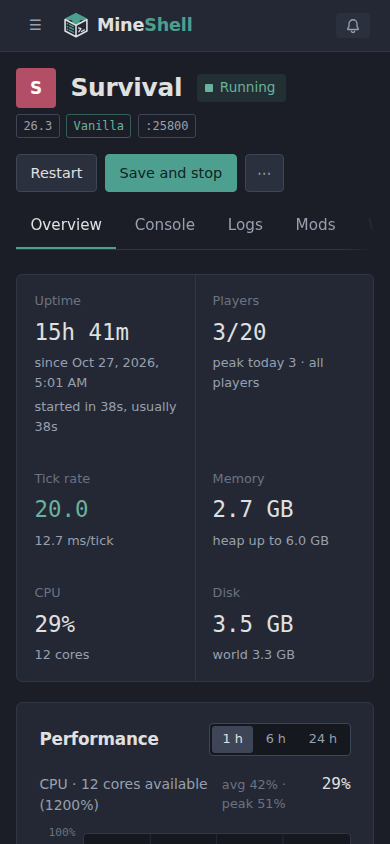
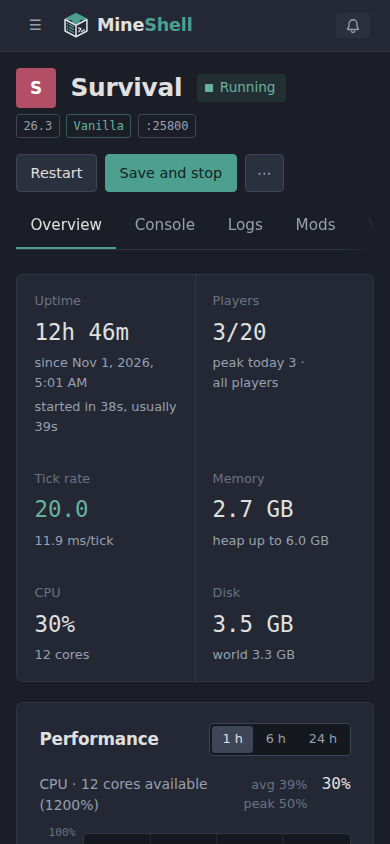
fix: chart numbers and the overview's players line wrap as whole pieces
A chart's average and peak broke anywhere ("avg 2.7 GB · peak 3.1" and
"GB" alone on the next line); they are now two pieces, peak under average
when there is no room. The Players card's "all players" split after "all";
it and "peak today 3 ·" now move to the next line whole. The README's
overview shots are redrawn (the current value's own wrapping was fixed on
2026-10-28, after they were taken).

diff --git a/src/lib/components/Sparkline.svelte b/src/lib/components/Sparkline.svelte
@@ -95,7 +95,8 @@
 		<span class="muted">{label}</span>
 		<span class="numbers">
 			{#if visible.length >= 2}
-				<span class="faint">avg {format(average)}{unit} · peak {format(peak)}{unit}</span>
+				<!-- Each its own piece: a narrow column puts peak under average, never "GB" alone. -->
+				<span class="faint stats"><span>avg {format(average)}{unit}</span><span>peak {format(peak)}{unit}</span></span>
 			{/if}
 			<span class="mono value">{format(latest)}{unit}</span>
 		</span>
@@ -168,6 +169,17 @@
 
 	.numbers .faint {
 		font-size: 0.8rem;
+	}
+
+	.stats {
+		display: flex;
+		flex-wrap: wrap;
+		justify-content: flex-end;
+		column-gap: 0.6rem;
+	}
+
+	.stats > span {
+		white-space: nowrap;
 	}
 
 	.value {

diff --git a/src/routes/instances/[id]/+page.svelte b/src/routes/instances/[id]/+page.svelte
@@ -342,7 +342,8 @@
 		<dt>Players</dt>
 		<dd class="mono">{data.players ? `${data.players.online}/${data.players.max}` : '-'}</dd>
 		<dd class="sub">
-			{#if data.history.peakToday}peak today {data.history.peakToday}{' · '}{/if}<a href="/instances/{data.instance.id}/players">all players</a>
+			<!-- Two pieces, each kept whole: "all players" moves to the next line rather than splitting. -->
+			{#if data.history.peakToday}<span class="nowrap">peak today {data.history.peakToday} ·</span>{' '}{/if}<a class="nowrap" href="/instances/{data.instance.id}/players">all players</a>
 		</dd>
 	</div>
 	<div>
